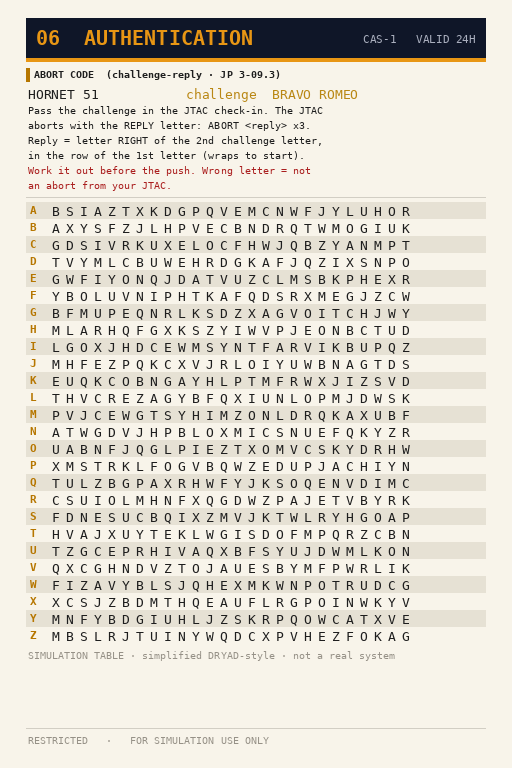
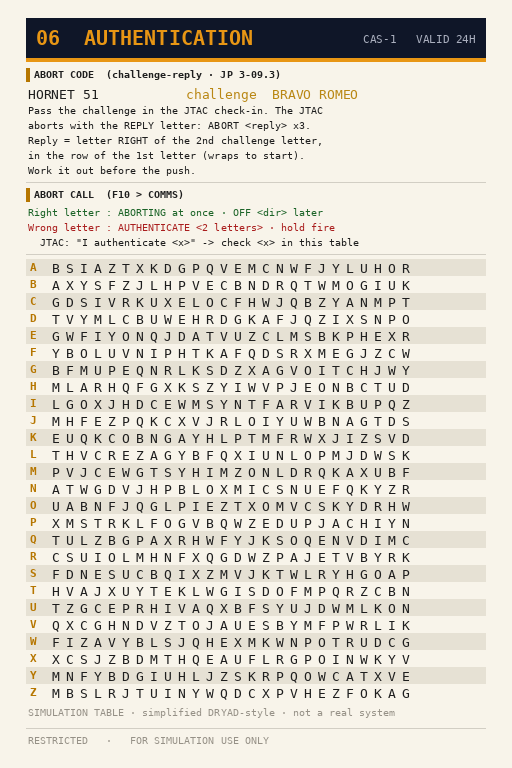
Kneeboard 06 AUTH: ABORT CALL block (make_kneeboard v3.7.0, approved by Onur 2026-11-03)
Right letter: ABORTING at once, OFF later. Wrong letter: AUTHENTICATE <2 letters>,
hold fire, check the JTAC's "I authenticate <x>" in the table. Only 06_AUTH.png
regenerated; the other cards are unchanged.

Claude-Session: https://claude.ai/code/session_01Jqre9v46nLyuWqJptptvD9

Changed region(s): [[0.0312, 0.2188, 0.8125, 0.9375]]

diff --git a/tools/make_kneeboard.py b/tools/make_kneeboard.py
@@ -1,4 +1,6 @@
-# make_kneeboard.py | v3.6.0
+# make_kneeboard.py | v3.7.0
+# v3.7.0: 06 AUTH (JTAC_Controller v0.13.0): ABORT CALL block - right letter: ABORTING at once, OFF later;
+#         wrong letter: AUTHENTICATE <two letters>, hold fire, check the JTAC's "I authenticate <x>" (same table).
 # v3.6.0: 02 COMM: alternate JTAC buttons C1-09 POINTER ALT 255.00 / C1-11 EYEBALL ALT 259.00 (lost comms, Comms_Director
 #         v1.8.0); COMM 2 btn 1 = OVERLORD (divert / retasking while working a JTAC on C1); comm flow 4-6 = OVERLORD
 #         tasks the JTACs in its own order (hold at CP TIGER angels 22 possible, divert possible).
@@ -335,8 +337,11 @@ def auth():
     c.line("aborts with the REPLY letter: ABORT <reply> x3.", f=F10)
     c.line("Reply = letter RIGHT of the 2nd challenge letter,", f=F10)
     c.line("in the row of the 1st letter (wraps to start).", f=F10)
-    c.line("Work it out before the push. Wrong letter = not", "r", F10)
-    c.line("an abort from your JTAC.", "r", F10)
+    c.line("Work it out before the push.", f=F10)
+    c.rule(); c.head("ABORT CALL  (F10 > COMMS)")
+    c.line("Right letter : ABORTING at once · OFF <dir> later", "g", F10)
+    c.line("Wrong letter : AUTHENTICATE <2 letters> · hold fire", "r", F10)
+    c.line("  JTAC: \"I authenticate <x>\" -> check <x> in this table", "t", F10)
     c.rule()
     d = c.d
     x0, cw = 26, 14
